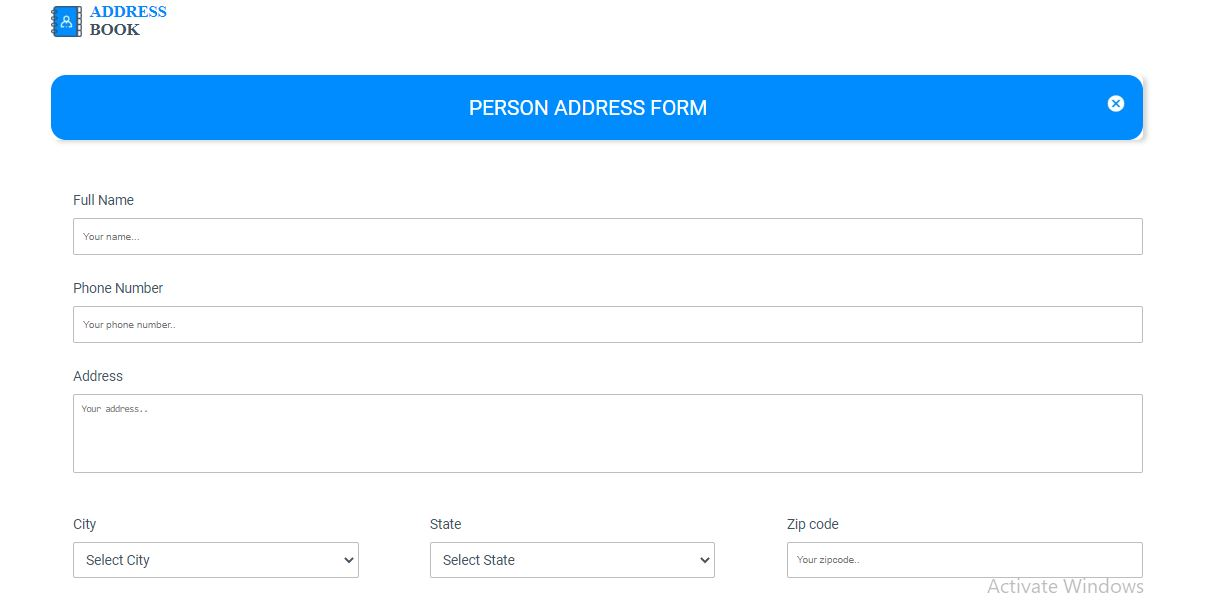
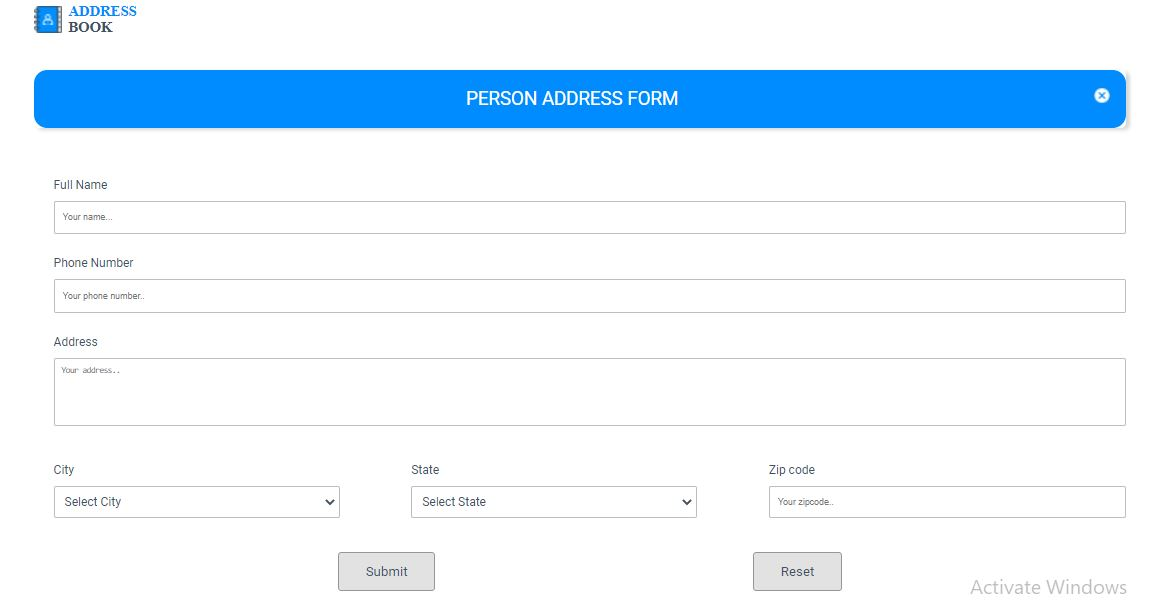
Submit and Reset button added in addressbook form

diff --git a/contact_data.js b/contact_data.js
@@ -1,0 +1,77 @@
+const nameRegex = RegExp("^[A-Z]{1}[A-Za-z\\s]{2,}$");
+const phoneNumberRegex = RegExp("^[0-9]{2}\\s{1}[7-9]{1}[0-9]{9}$");
+const addressRegex = RegExp('^[a-zA-Z0-9#,&]{4,}$');
+const zipRegex = RegExp("^[0-9]{3}\\s{0,1}[0-9]{3}$");
+
+class Contact {
+  
+  get id() {
+    return this._id;
+  }
+  set id(id) {
+    this._id = id;
+  }
+
+  get name() {
+    return this._name;
+  }
+  set name(name) {
+    if (nameRegex.test(name)) {
+      this._name = name;
+    } else {
+      throw "NAME is Invalid!";
+    }
+  }
+
+  get phoneNumber() {
+    return this._phoneNumber;
+  }
+  set phoneNumber(phoneNumber) {
+    if (phoneNumberRegex.test(phoneNumber)) {
+      this._phoneNumber = phoneNumber;
+    } else {
+      throw "PHONE NUMBER is Invalid!";
+    }   
+  }
+
+  get address() {
+    return this._address;
+  }
+  set address(address) {
+    if (addressRegex.test(address)) {
+      this._address = address;
+    } else {
+      throw "ADDRESS is Invalid!";
+    }
+  }
+  
+  get city() {
+    return this._city;
+  }
+  set city(city) {
+    this._city = city;
+  }
+  
+  get state() {
+    return this._state;
+  }
+  set state(state) {
+    this._state = state;
+  }
+
+  get zip() {
+    return this._zip;
+  }
+  set zip(zip) {
+    if (zipRegex.test(zip)) {
+      this._zip = zip;
+    } else {
+      throw "ZIP is Invalid!";
+    }
+  }
+
+  toString(){
+      return `id ${this.id} \nName ${this.name} \nPhone Number ${this.phoneNumber} \nAddress ${this.address} \nCity ${this.city} \nState ${this.state} \nZip  ${this.zip}`;
+  }
+
+}

diff --git a/addressBookForm.css b/addressBookForm.css
@@ -157,3 +157,34 @@ error-output {
   font-style: italic;
   color: red;
 }
+
+/* --------------UC5------------------- */
+.buttons-contact {
+  margin-top: 50px;
+  display: flex;
+  justify-content: flex-end;
+}
+
+.button {
+  background: #e2e2e2 0% 0% no-repeat padding-box;
+  border: 1px solid #969696;
+  border-radius: 5px;
+  opacity: 1;
+  font: normal normal normal 20px/26px Roboto;
+  letter-spacing: 0px;
+  color: #42515f;
+  opacity: 1;
+  padding: 15px 40px;
+  text-align: center;
+  margin-bottom: 20px;
+  margin:auto;
+  display:block;
+}
+
+.button-submit{
+  margin-right: 50px;
+}
+
+.button:hover{
+  box-shadow: 0px 8px 15px rgba(77, 74, 74, 0.3);
+}

diff --git a/addresBookForm.html b/addresBookForm.html
@@ -124,6 +124,11 @@
           <error-output class="zip-error"></error-output>
         </div>
       </div>
+  <!--------------UC5---------------->
+      <div class="buttons-contact">
+        <button type="submit" class="button button-submit" id="submitButton">Submit</button>
+        <button type="reset" class="button button-reset" id="resetButton">Reset</button>
+      </div>
     </div>
   </div>
 <!--------------UC4---------------->
